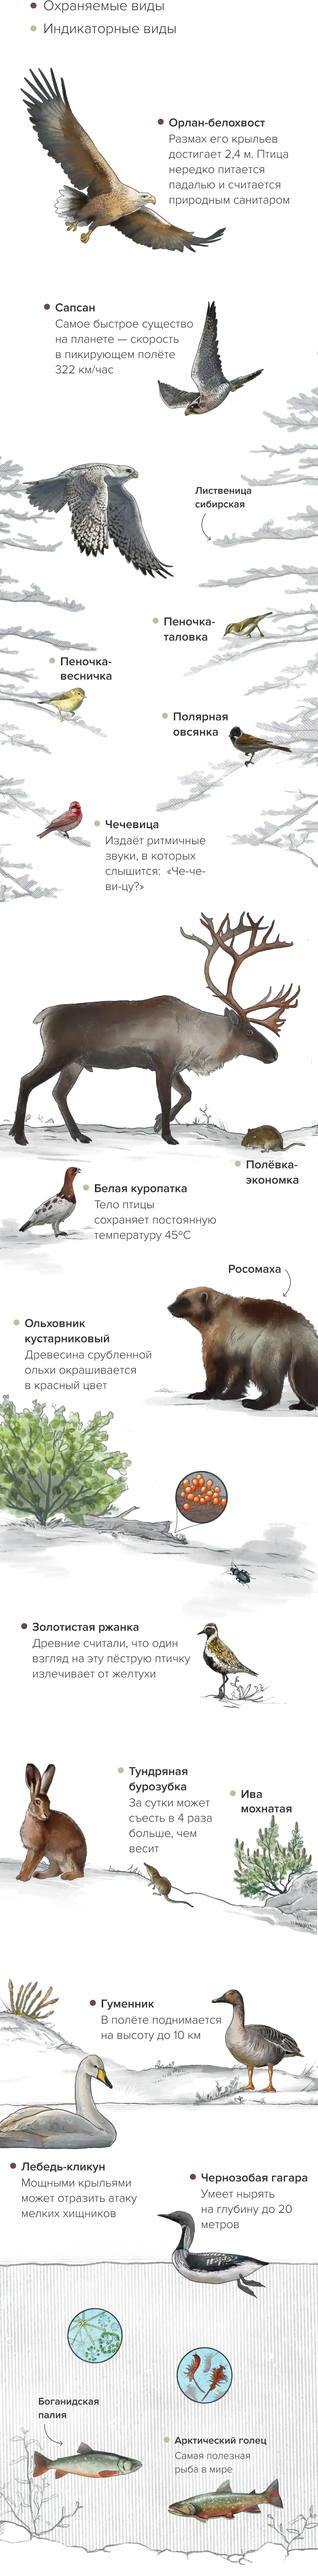
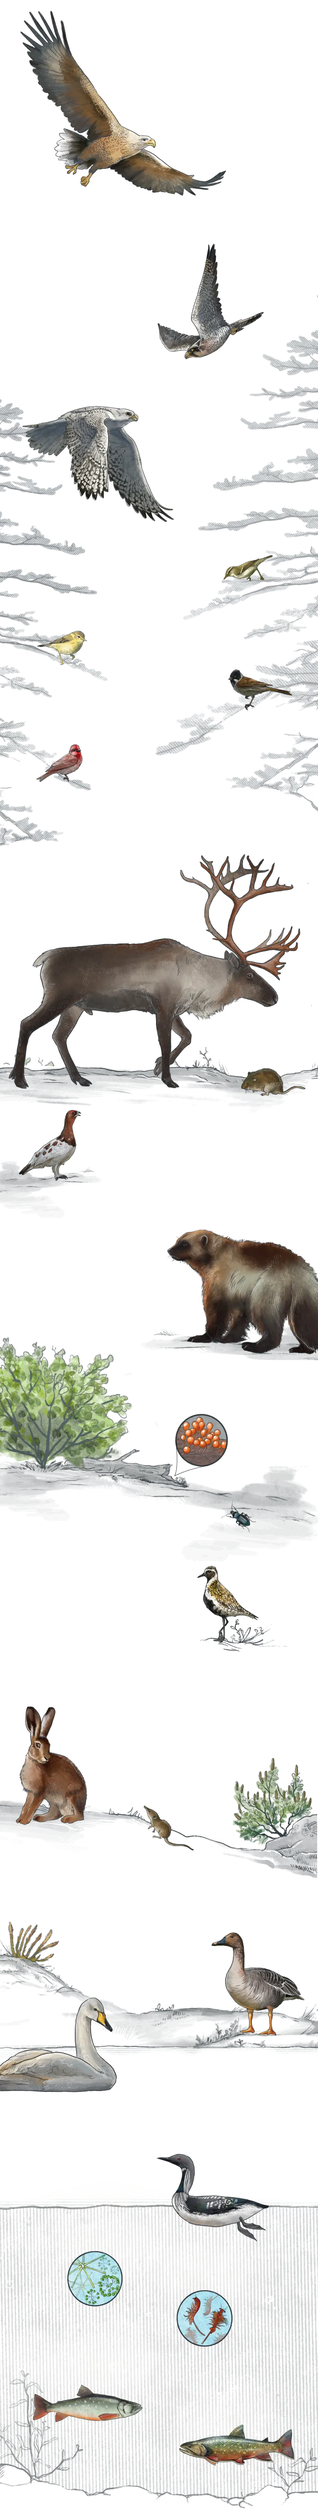
2page all

Changed region(s): [[0.0, 0.0, 1.0, 0.997], [0.736, 0.0312, 0.828, 0.0935], [0.9813, 0.405, 1.0, 0.4673]]

diff --git a/src/pages/NorilskDivisionPage.vue b/src/pages/NorilskDivisionPage.vue
@@ -272,20 +272,19 @@
 
                     <BaseDropdownInfo class="zooplankton" :title="'Зоопланктон'" :is-modal="true"
                         :text="'Чтобы оценить состояние водоёмов, исследователи отобрали виды зоопланктона, сигнализирующие о&nbsp;качестве воды. Например, планктонный рачок Limnocalanus macrurus любит чистую воду, а&nbsp;если начинает доминировать планктонная коловратка Brachionus sericus&nbsp;&mdash; вода загрязнена'" />
-                    <BaseDropdownInfo v-if="!isMobile" class="palia" :title="'Боганидская палия'" :is-modal="true"
+                    <BaseDropdownInfo class="palia" :title="'Боганидская палия'" :is-modal="true"
                         :text="'Считается самой полезной рыбой в&nbsp;мире: кусочек рыбы в&nbsp;30&nbsp;г покрывает суточную потребность человека в&nbsp;полезных жирных кислотах. Встречается также в&nbsp;водоёмах Кольского дивизиона'" />
 
-                    <BaseDropdownInfo v-if="isMobile" class="merlin_mobile" :title="'Кречет'" :color="'#71464E'"
-                        :is-modal="true"
+                    <BaseDropdownInfo class="merlin_mobile" :title="'Кречет'" :color="'#71464E'" :is-modal="true"
                         :text="'Самая крупная птица из&nbsp;отряда соколиных. За&nbsp;последние 20&nbsp;лет её&nbsp;популяция в&nbsp;России сократилась втрое. &laquo;Норникель&raquo; вложил 50&nbsp;млн рублей в&nbsp;поддержку и&nbsp;сохранение вида в&nbsp;2022&ndash;2023&nbsp;гг'" />
 
-                    <BaseDropdownInfo v-if="isMobile" class="deer_mobile" :title="'Дикий северный олень'" :color="'#71464E'"
+                    <BaseDropdownInfo class="deer_mobile" :title="'Дикий северный олень'" :color="'#71464E'"
                         :is-modal="true"
                         :text="'Отличительная особенность этого вида&nbsp;&mdash; наличие рогов у&nbsp;самок. Наименее изученная и&nbsp;малочисленная популяция дикого северного оленя&nbsp;&mdash; гыданская, она занесена в&nbsp;Красную книгу ЯНАО. По&nbsp;данным исследований, олени почти не&nbsp;мигрируют на&nbsp;дальние расстояния и&nbsp;круглый год остаются в&nbsp;арктической тундре'" />
-                    <BaseDropdownInfo v-if="isMobile" class="lycosus-moss_mobile" :title="'Плаунок плаунковидный'"
-                        :is-modal="true" :color="'#71464E'"
+                    <BaseDropdownInfo class="lycosus-moss_mobile" :title="'Плаунок плаунковидный'" :is-modal="true"
+                        :color="'#71464E'"
                         :text="'В&nbsp;районе Промышленного Норильска биологи обнаружили несколько участков, ценных для произрастания этого редкого вида растений. Чтобы сохранить популяции плаунка, вокруг этих участков необходимо создавать защитные зоны'" />
-                    <BaseDropdownInfo v-if="isMobile" class="hare_mobile" :title="'Заяц-беляк'" :is-modal="true"
+                    <BaseDropdownInfo class="hare_mobile" :title="'Заяц-беляк'" :is-modal="true"
                         :text="'Спасаясь от&nbsp;опасности, развивает скорость до&nbsp;60&nbsp;км/ч'" />
                 </div>
                 <BaseTextBlock class="mb-100" :tooltip="true">
@@ -1104,6 +1103,7 @@ export default {
 
         @media (max-width: 768px) {
             height: 810rem;
+            background-position: left 18rem;
             background-image: url(../../public/img/collage-mobile.png);
 
             @supports (background-image: url(../../public/img/collage-mobile.webp)) {
@@ -1136,6 +1136,24 @@ export default {
             .block-info {
                 position: static;
                 font-size: 1.25rem;
+
+                @media (max-width: 768px) {
+                    font-size: 4.53334rem;
+                }
+            }
+
+            @media (max-width: 768px) {
+                flex-direction: column;
+                align-items: flex-start;
+                gap: 1rem;
+                top: -1rem;
+                padding-left: 10rem;
+
+                .block-info__text {
+                    font-size: 4.53334rem;
+                    line-height: 130%;
+                }
+
             }
         }
 
@@ -1145,7 +1163,9 @@ export default {
             right: 42.3rem;
 
             @media (max-width: 768px) {
-                display: none;
+                width: 42rem;
+                top: 34rem;
+                right: 8rem;
             }
         }
 
@@ -1155,7 +1175,9 @@ export default {
             right: 46.2rem;
 
             @media (max-width: 768px) {
-                display: none;
+                width: 33rem;
+                top: 94rem;
+                right: 53rem;
             }
         }
 
@@ -1165,7 +1187,12 @@ export default {
             right: 28.5rem;
 
             @media (max-width: 768px) {
-                display: none;
+                top: 193rem;
+                right: 41rem;
+
+                .block-info__text p {
+                    display: none;
+                }
             }
         }
 
@@ -1175,7 +1202,9 @@ export default {
             left: 17.5rem;
 
             @media (max-width: 768px) {
-                display: none;
+                top: 256.4rem;
+                left: 29.5rem;
+                width: 41rem;
             }
         }
 
@@ -1185,7 +1214,12 @@ export default {
             right: 36rem;
 
             @media (max-width: 768px) {
-                display: none;
+                top: 205.5rem;
+                right: 72.5rem;
+
+                .block-info__text p {
+                    display: none;
+                }
             }
         }
 
@@ -1217,7 +1251,8 @@ export default {
             right: 30.5rem;
 
             @media (max-width: 768px) {
-                display: none;
+                top: 223rem;
+                right: 42.5rem;
             }
         }
 
@@ -1227,7 +1262,8 @@ export default {
             right: 15.5rem;
 
             @media (max-width: 768px) {
-                display: none;
+                top: 154rem;
+                right: 30rem;
             }
         }
 
@@ -1235,6 +1271,10 @@ export default {
             width: 22rem;
             top: 132.2rem;
             right: 33rem;
+
+            @media (max-width: 768px) {
+                display: none;
+            }
 
             &_mobile {
                 display: none;
@@ -1258,7 +1298,8 @@ export default {
             left: 18.8rem;
 
             @media (max-width: 768px) {
-                display: none;
+                top: 371.2rem;
+                left: 25.8rem;
             }
         }
 
@@ -1268,7 +1309,9 @@ export default {
             left: 30.2rem;
 
             @media (max-width: 768px) {
-                display: none;
+                width: 31rem;
+                top: 553rem;
+                left: 37.2rem;
             }
         }
 
@@ -1278,7 +1321,8 @@ export default {
             right: 40.7rem;
 
             @media (max-width: 768px) {
-                display: none;
+                top: 399rem;
+                right: 20.7rem;
             }
         }
 
@@ -1288,7 +1332,9 @@ export default {
             left: 46.7rem;
 
             @media (max-width: 768px) {
-                display: none;
+                top: 412rem;
+                width: 50rem;
+                left: 4rem;
             }
         }
 
@@ -1298,7 +1344,8 @@ export default {
             right: 17rem;
 
             @media (max-width: 768px) {
-                display: none;
+                top: 561rem;
+                right: 19rem;
             }
         }
 
@@ -1308,7 +1355,8 @@ export default {
             right: 8.7rem;
 
             @media (max-width: 768px) {
-                display: none;
+                top: 364rem;
+                right: 18.7rem;
             }
         }
 
@@ -1316,6 +1364,10 @@ export default {
             width: 15rem;
             top: 233.5rem;
             left: 27rem;
+
+            @media (max-width: 768px) {
+                display: none;
+            }
 
             &_mobile {
                 display: none;
@@ -1339,7 +1391,9 @@ export default {
             right: 36rem;
 
             @media (max-width: 768px) {
-                display: none;
+                width: 59rem;
+                top: 509rem;
+                right: 34rem;
             }
         }
 
@@ -1349,7 +1403,9 @@ export default {
             right: 23.9rem;
 
             @media (max-width: 768px) {
-                display: none;
+                width: 48rem;
+                top: 627rem;
+                right: 23.9rem;
             }
         }
 
@@ -1359,7 +1415,9 @@ export default {
             right: 12.9rem;
 
             @media (max-width: 768px) {
-                display: none;
+                width: 38rem;
+                top: 681rem;
+                right: 1.9rem;
             }
         }
 
@@ -1369,7 +1427,9 @@ export default {
             left: 38.9rem;
 
             @media (max-width: 768px) {
-                display: none;
+                width: 43rem;
+                top: 677rem;
+                left: 2.9rem;
             }
         }
 
@@ -1383,6 +1443,7 @@ export default {
             }
 
             &_mobile {
+                display: none;
                 position: absolute;
                 bottom: 193rem;
                 left: 2rem;
@@ -1403,7 +1464,13 @@ export default {
             left: 24rem;
 
             @media (max-width: 768px) {
-                display: none;
+                width: 33rem;
+                top: 772rem;
+                left: 52rem;
+
+                .block-info__title {
+                    font-size: 3.2rem;
+                }
             }
         }
 
@@ -1418,7 +1485,13 @@ export default {
             }
 
             @media (max-width: 768px) {
-                display: none;
+                bottom: 44.4rem;
+                left: 10rem;
+
+                .dropdown-info__title {
+                    font-size: 3.2rem;
+                    max-width: 33rem;
+                }
             }
         }
 
@@ -1451,7 +1524,11 @@ export default {
 
             @media (max-width: 768px) {
                 bottom: 86rem;
-                left: 8rem;
+                left: 11rem;
+
+                .dropdown-info__title {
+                    font-size: 3.2rem;
+                }
             }
         }
 
@@ -1462,7 +1539,11 @@ export default {
 
             @media (max-width: 768px) {
                 bottom: 74rem;
-                right: 29rem;
+                right: 22rem;
+
+                .dropdown-info__title {
+                    font-size: 3.2rem;
+                }
             }
         }
     }

diff --git a/src/components/BaseCollageInfo.vue b/src/components/BaseCollageInfo.vue
@@ -65,7 +65,7 @@ export default {
         font-weight: 600;
 
         @media (max-width: 768px) {
-            margin-bottom: 2.6667rem;
+            margin-bottom: 1.6667rem;
         }
     }
 }
